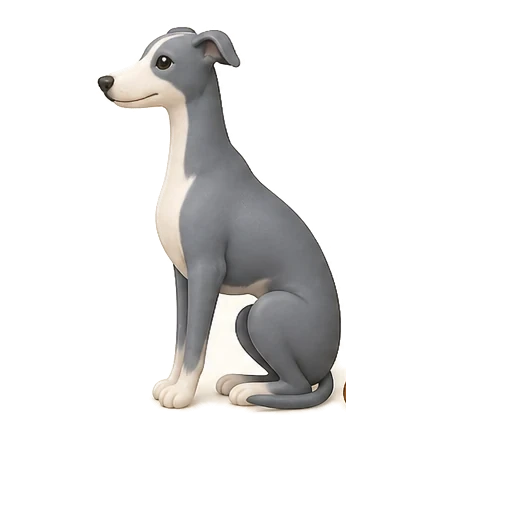
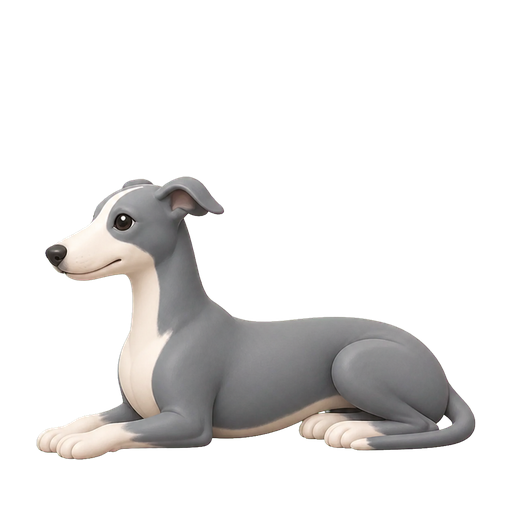
refine greyhound grooming animation

diff --git a/src/components/category-explorer.module.css b/src/components/category-explorer.module.css
@@ -13,10 +13,8 @@
 .quickIcon [data-motion-layer="independent-base"] { background-image: url('/illustrations/ui/lifestyle-motion/independent-base.png'); background-position: center; background-size: 100% 100%; }
 .quickIcon [data-motion-layer="independent-yawn-mid"] { background-image: url('/illustrations/ui/lifestyle-motion/independent-yawn-mid.png'); background-position: center; background-size: 100% 100%; opacity: 0; }
 .quickIcon [data-motion-layer="independent-yawn-full"] { background-image: url('/illustrations/ui/lifestyle-motion/independent-yawn-full.png'); background-position: center; background-size: 100% 100%; opacity: 0; }
-.quickIcon [data-motion-layer="grooming-dog"] { background-image: url('/illustrations/ui/lifestyle-motion/grooming-dog.webp'); background-position: center; background-size: 100% 100%; }
-.quickIcon [data-motion-layer="grooming-blink"] { background-image: url('/illustrations/ui/lifestyle-motion/grooming-blink.webp'); background-position: center; background-size: 100% 100%; opacity: 0; }
-.quickIcon [data-motion-layer="grooming-brush"] { background-image: url('/illustrations/ui/lifestyle-motion/grooming-brush.webp'); background-position: center; background-size: 100% 100%; transform-origin: 74% 70%; }
-.quickIcon [data-motion-layer="grooming-sparkles"] { background-image: url('/illustrations/ui/lifestyle-motion/grooming-accessory.webp'); background-position: center; background-size: 100% 100%; opacity: 0; transform-origin: 73% 45%; }
+.quickIcon [data-motion-layer="grooming-dog"] { background-image: url('/illustrations/ui/lifestyle-motion/grooming-dog.webp'); background-position: center; background-size: 100% 100%; transform-origin: 50% 78%; }
+.quickIcon [data-motion-layer="grooming-hand"] { background-image: url('/illustrations/ui/lifestyle-motion/grooming-hand.webp'); background-position: center; background-size: 100% 100%; transform-origin: 68% 48%; }
 .quickIcon [data-motion-layer="unfamiliar-base"] { background-image: url('/illustrations/ui/lifestyle-motion/unfamiliar-base.png'); background-position: center; background-size: 100% 100%; }
 .quickIcon [data-motion-layer="unfamiliar-question"] { background-image: url('/illustrations/ui/lifestyle-motion/unfamiliar-question.png'); background-position: center; background-size: 100% 100%; transform-origin: 68% 16%; }
 .quickStartCard[data-motion-ready="true"] .quickIcon [data-motion-layer="calm-base"] { animation: calm-breathe-once 2.8s cubic-bezier(.45, 0, .55, 1) 1 both; }
@@ -26,9 +24,8 @@
 .quickStartCard[data-motion-ready="true"] .quickIcon [data-motion-layer="social-hand"] { animation: social-hand-once 3.8s cubic-bezier(.42, 0, .25, 1) 1 both; }
 .quickStartCard[data-motion-ready="true"] .quickIcon [data-motion-layer="independent-yawn-mid"] { animation: independent-yawn-mid-once 4.8s ease-in-out 1 both; }
 .quickStartCard[data-motion-ready="true"] .quickIcon [data-motion-layer="independent-yawn-full"] { animation: independent-yawn-full-once 4.8s ease-in-out 1 both; }
-.quickStartCard[data-motion-ready="true"] .quickIcon [data-motion-layer="grooming-blink"] { animation: grooming-blink-once 4.4s linear 1 both; }
-.quickStartCard[data-motion-ready="true"] .quickIcon [data-motion-layer="grooming-brush"] { animation: grooming-brush-once 4.4s cubic-bezier(.42, 0, .25, 1) 1 both; }
-.quickStartCard[data-motion-ready="true"] .quickIcon [data-motion-layer="grooming-sparkles"] { animation: grooming-sparkles-once 4.4s ease-in-out 1 both; }
+.quickStartCard[data-motion-ready="true"] .quickIcon [data-motion-layer="grooming-dog"] { animation: grooming-breathe-once 4.6s ease-in-out 1 both; }
+.quickStartCard[data-motion-ready="true"] .quickIcon [data-motion-layer="grooming-hand"] { animation: grooming-stroke-once 4.6s cubic-bezier(.42, 0, .25, 1) 1 both; }
 .quickStartCard[data-motion-ready="true"] .quickIcon [data-motion-layer="unfamiliar-question"] { animation: unfamiliar-question-once 2s ease-in-out 1 both; }
 .quickStartCard:hover { transform: translateY(-2px); border-color: var(--moss); box-shadow: 0 10px 24px rgb(42 52 46 / 8%); }
 .quickStartCard:focus-visible { outline: 3px solid var(--focus); outline-offset: 3px; }
@@ -58,9 +55,8 @@
   .quickStartCard:hover .quickIcon [data-motion-layer="social-hand"] { animation: social-hand-loop 3.8s cubic-bezier(.42, 0, .25, 1) infinite; }
   .quickStartCard:hover .quickIcon [data-motion-layer="independent-yawn-mid"] { animation: independent-yawn-mid-loop 4.8s ease-in-out infinite; }
   .quickStartCard:hover .quickIcon [data-motion-layer="independent-yawn-full"] { animation: independent-yawn-full-loop 4.8s ease-in-out infinite; }
-  .quickStartCard:hover .quickIcon [data-motion-layer="grooming-blink"] { animation: grooming-blink-loop 4.4s linear infinite; }
-  .quickStartCard:hover .quickIcon [data-motion-layer="grooming-brush"] { animation: grooming-brush-loop 4.4s cubic-bezier(.42, 0, .25, 1) infinite; }
-  .quickStartCard:hover .quickIcon [data-motion-layer="grooming-sparkles"] { animation: grooming-sparkles-loop 4.4s ease-in-out infinite; }
+  .quickStartCard:hover .quickIcon [data-motion-layer="grooming-dog"] { animation: grooming-breathe-loop 4.6s ease-in-out infinite; }
+  .quickStartCard:hover .quickIcon [data-motion-layer="grooming-hand"] { animation: grooming-stroke-loop 4.6s cubic-bezier(.42, 0, .25, 1) infinite; }
   .quickStartCard:hover .quickIcon [data-motion-layer="unfamiliar-question"] { animation: unfamiliar-question-loop 2s ease-in-out infinite; }
 }
 .quickStartCard:focus-visible .quickIcon [data-motion-layer="calm-base"] { animation: calm-breathe-loop 2.8s cubic-bezier(.45, 0, .55, 1) infinite; }
@@ -70,9 +66,8 @@
 .quickStartCard:focus-visible .quickIcon [data-motion-layer="social-hand"] { animation: social-hand-loop 3.8s cubic-bezier(.42, 0, .25, 1) infinite; }
 .quickStartCard:focus-visible .quickIcon [data-motion-layer="independent-yawn-mid"] { animation: independent-yawn-mid-loop 4.8s ease-in-out infinite; }
 .quickStartCard:focus-visible .quickIcon [data-motion-layer="independent-yawn-full"] { animation: independent-yawn-full-loop 4.8s ease-in-out infinite; }
-.quickStartCard:focus-visible .quickIcon [data-motion-layer="grooming-blink"] { animation: grooming-blink-loop 4.4s linear infinite; }
-.quickStartCard:focus-visible .quickIcon [data-motion-layer="grooming-brush"] { animation: grooming-brush-loop 4.4s cubic-bezier(.42, 0, .25, 1) infinite; }
-.quickStartCard:focus-visible .quickIcon [data-motion-layer="grooming-sparkles"] { animation: grooming-sparkles-loop 4.4s ease-in-out infinite; }
+.quickStartCard:focus-visible .quickIcon [data-motion-layer="grooming-dog"] { animation: grooming-breathe-loop 4.6s ease-in-out infinite; }
+.quickStartCard:focus-visible .quickIcon [data-motion-layer="grooming-hand"] { animation: grooming-stroke-loop 4.6s cubic-bezier(.42, 0, .25, 1) infinite; }
 .quickStartCard:focus-visible .quickIcon [data-motion-layer="unfamiliar-question"] { animation: unfamiliar-question-loop 2s ease-in-out infinite; }
 @keyframes calm-breathe-once {
   0%, 100% { transform: scaleY(1); }
@@ -136,33 +131,23 @@
   0%, 40%, 68%, 100% { opacity: 0; }
   48%, 60% { opacity: 1; }
 }
-@keyframes grooming-brush-once {
-  0%, 14%, 100% { transform: translate(4px, 3px) rotate(2deg); }
-  42% { transform: translate(-9px, -10px) rotate(-3deg); }
-  62% { transform: translate(-16px, -19px) rotate(-5deg); }
-  82% { transform: translate(1px, 1px) rotate(1deg); }
+@keyframes grooming-breathe-once {
+  0%, 100% { transform: scaleY(1); }
+  48% { transform: scaleY(1.006); }
 }
-@keyframes grooming-brush-loop {
-  0%, 14%, 100% { transform: translate(4px, 3px) rotate(2deg); }
-  42% { transform: translate(-9px, -10px) rotate(-3deg); }
-  62% { transform: translate(-16px, -19px) rotate(-5deg); }
-  82% { transform: translate(1px, 1px) rotate(1deg); }
+@keyframes grooming-breathe-loop {
+  0%, 100% { transform: scaleY(1); }
+  48% { transform: scaleY(1.006); }
 }
-@keyframes grooming-blink-once {
-  0%, 43%, 55%, 100% { opacity: 0; }
-  47%, 51% { opacity: 1; }
+@keyframes grooming-stroke-once {
+  0%, 14%, 100% { transform: translate(10px, 0) rotate(.5deg); }
+  58% { transform: translate(-17px, 1px) rotate(-1deg); }
+  82% { transform: translate(6px, 0) rotate(.25deg); }
 }
-@keyframes grooming-blink-loop {
-  0%, 43%, 55%, 100% { opacity: 0; }
-  47%, 51% { opacity: 1; }
-}
-@keyframes grooming-sparkles-once {
-  0%, 57%, 100% { opacity: 0; transform: translateY(2px) scale(.86); }
-  67%, 82% { opacity: 1; transform: translateY(-1px) scale(1.05); }
-}
-@keyframes grooming-sparkles-loop {
-  0%, 57%, 100% { opacity: 0; transform: translateY(2px) scale(.86); }
-  67%, 82% { opacity: 1; transform: translateY(-1px) scale(1.05); }
+@keyframes grooming-stroke-loop {
+  0%, 14%, 100% { transform: translate(10px, 0) rotate(.5deg); }
+  58% { transform: translate(-17px, 1px) rotate(-1deg); }
+  82% { transform: translate(6px, 0) rotate(.25deg); }
 }
 @keyframes unfamiliar-question-once {
   0%, 100% { opacity: 1; transform: translateY(0) rotate(0); }

diff --git a/src/components/category-dog-icon.tsx b/src/components/category-dog-icon.tsx
@@ -27,9 +27,7 @@ export function CategoryDogIcon({ name, className }: { name: CategoryDogIconName
       {name === "grooming" ? (
         <>
           <span data-motion-layer="grooming-dog" />
-          <span data-motion-layer="grooming-blink" />
-          <span data-motion-layer="grooming-brush" />
-          <span data-motion-layer="grooming-sparkles" />
+          <span data-motion-layer="grooming-hand" />
         </>
       ) : null}
       {name === "unfamiliar" ? (
